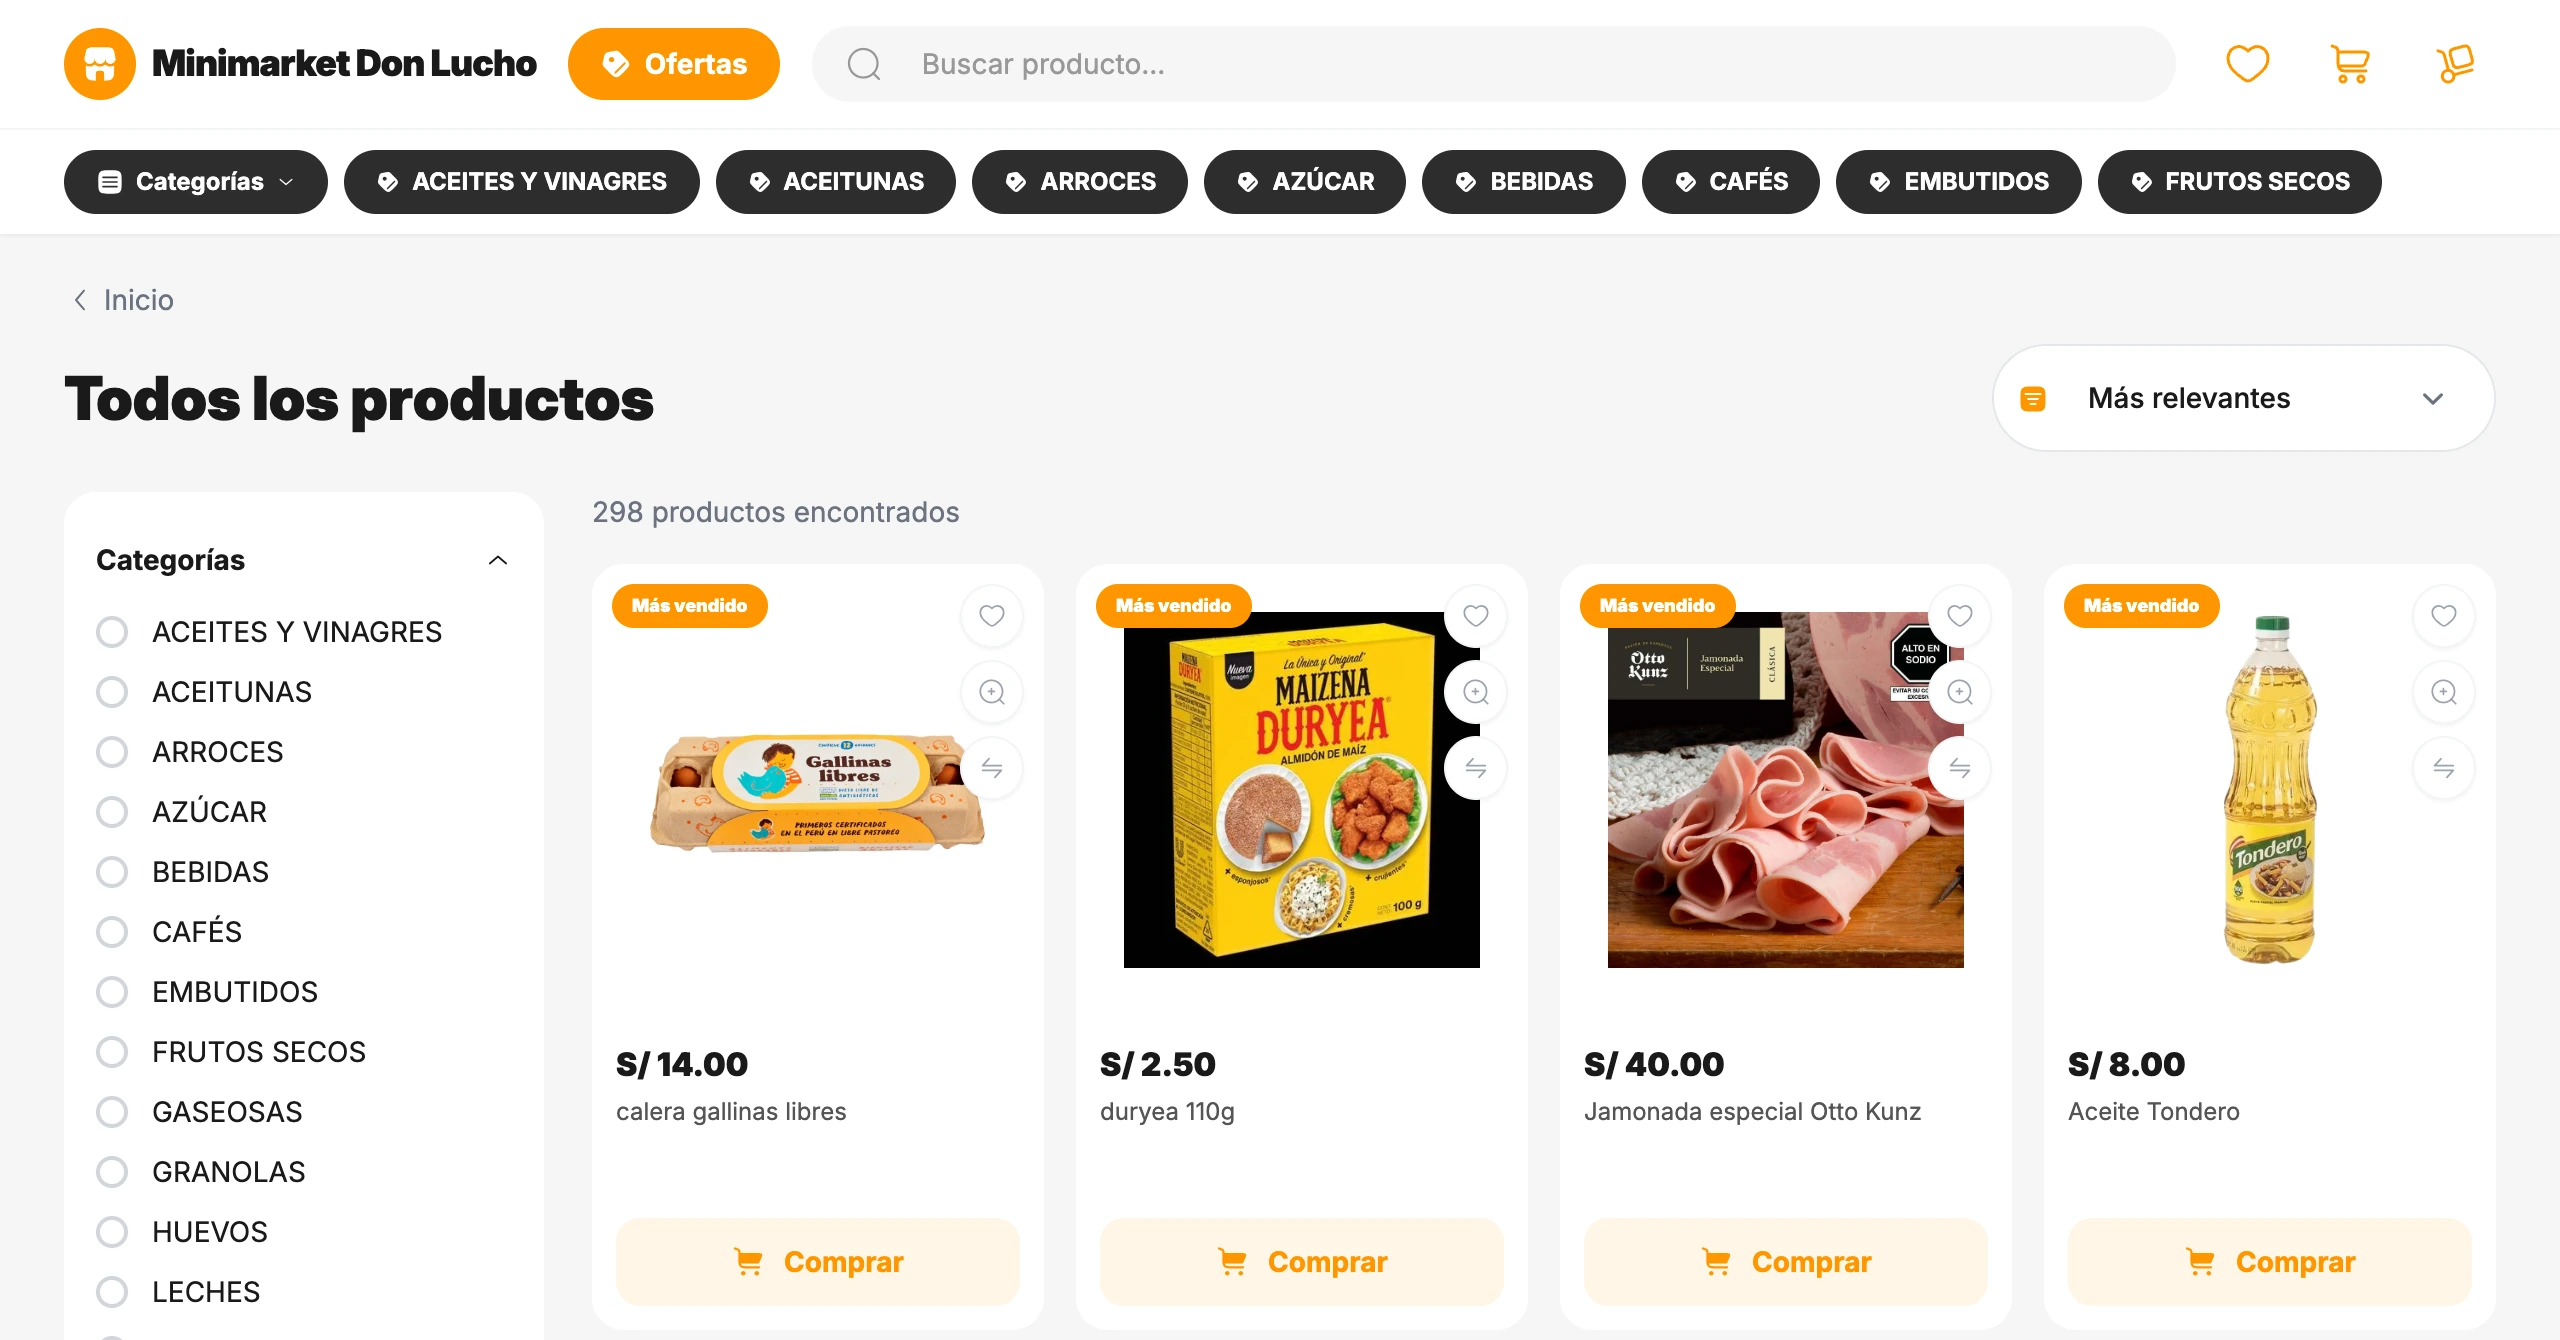
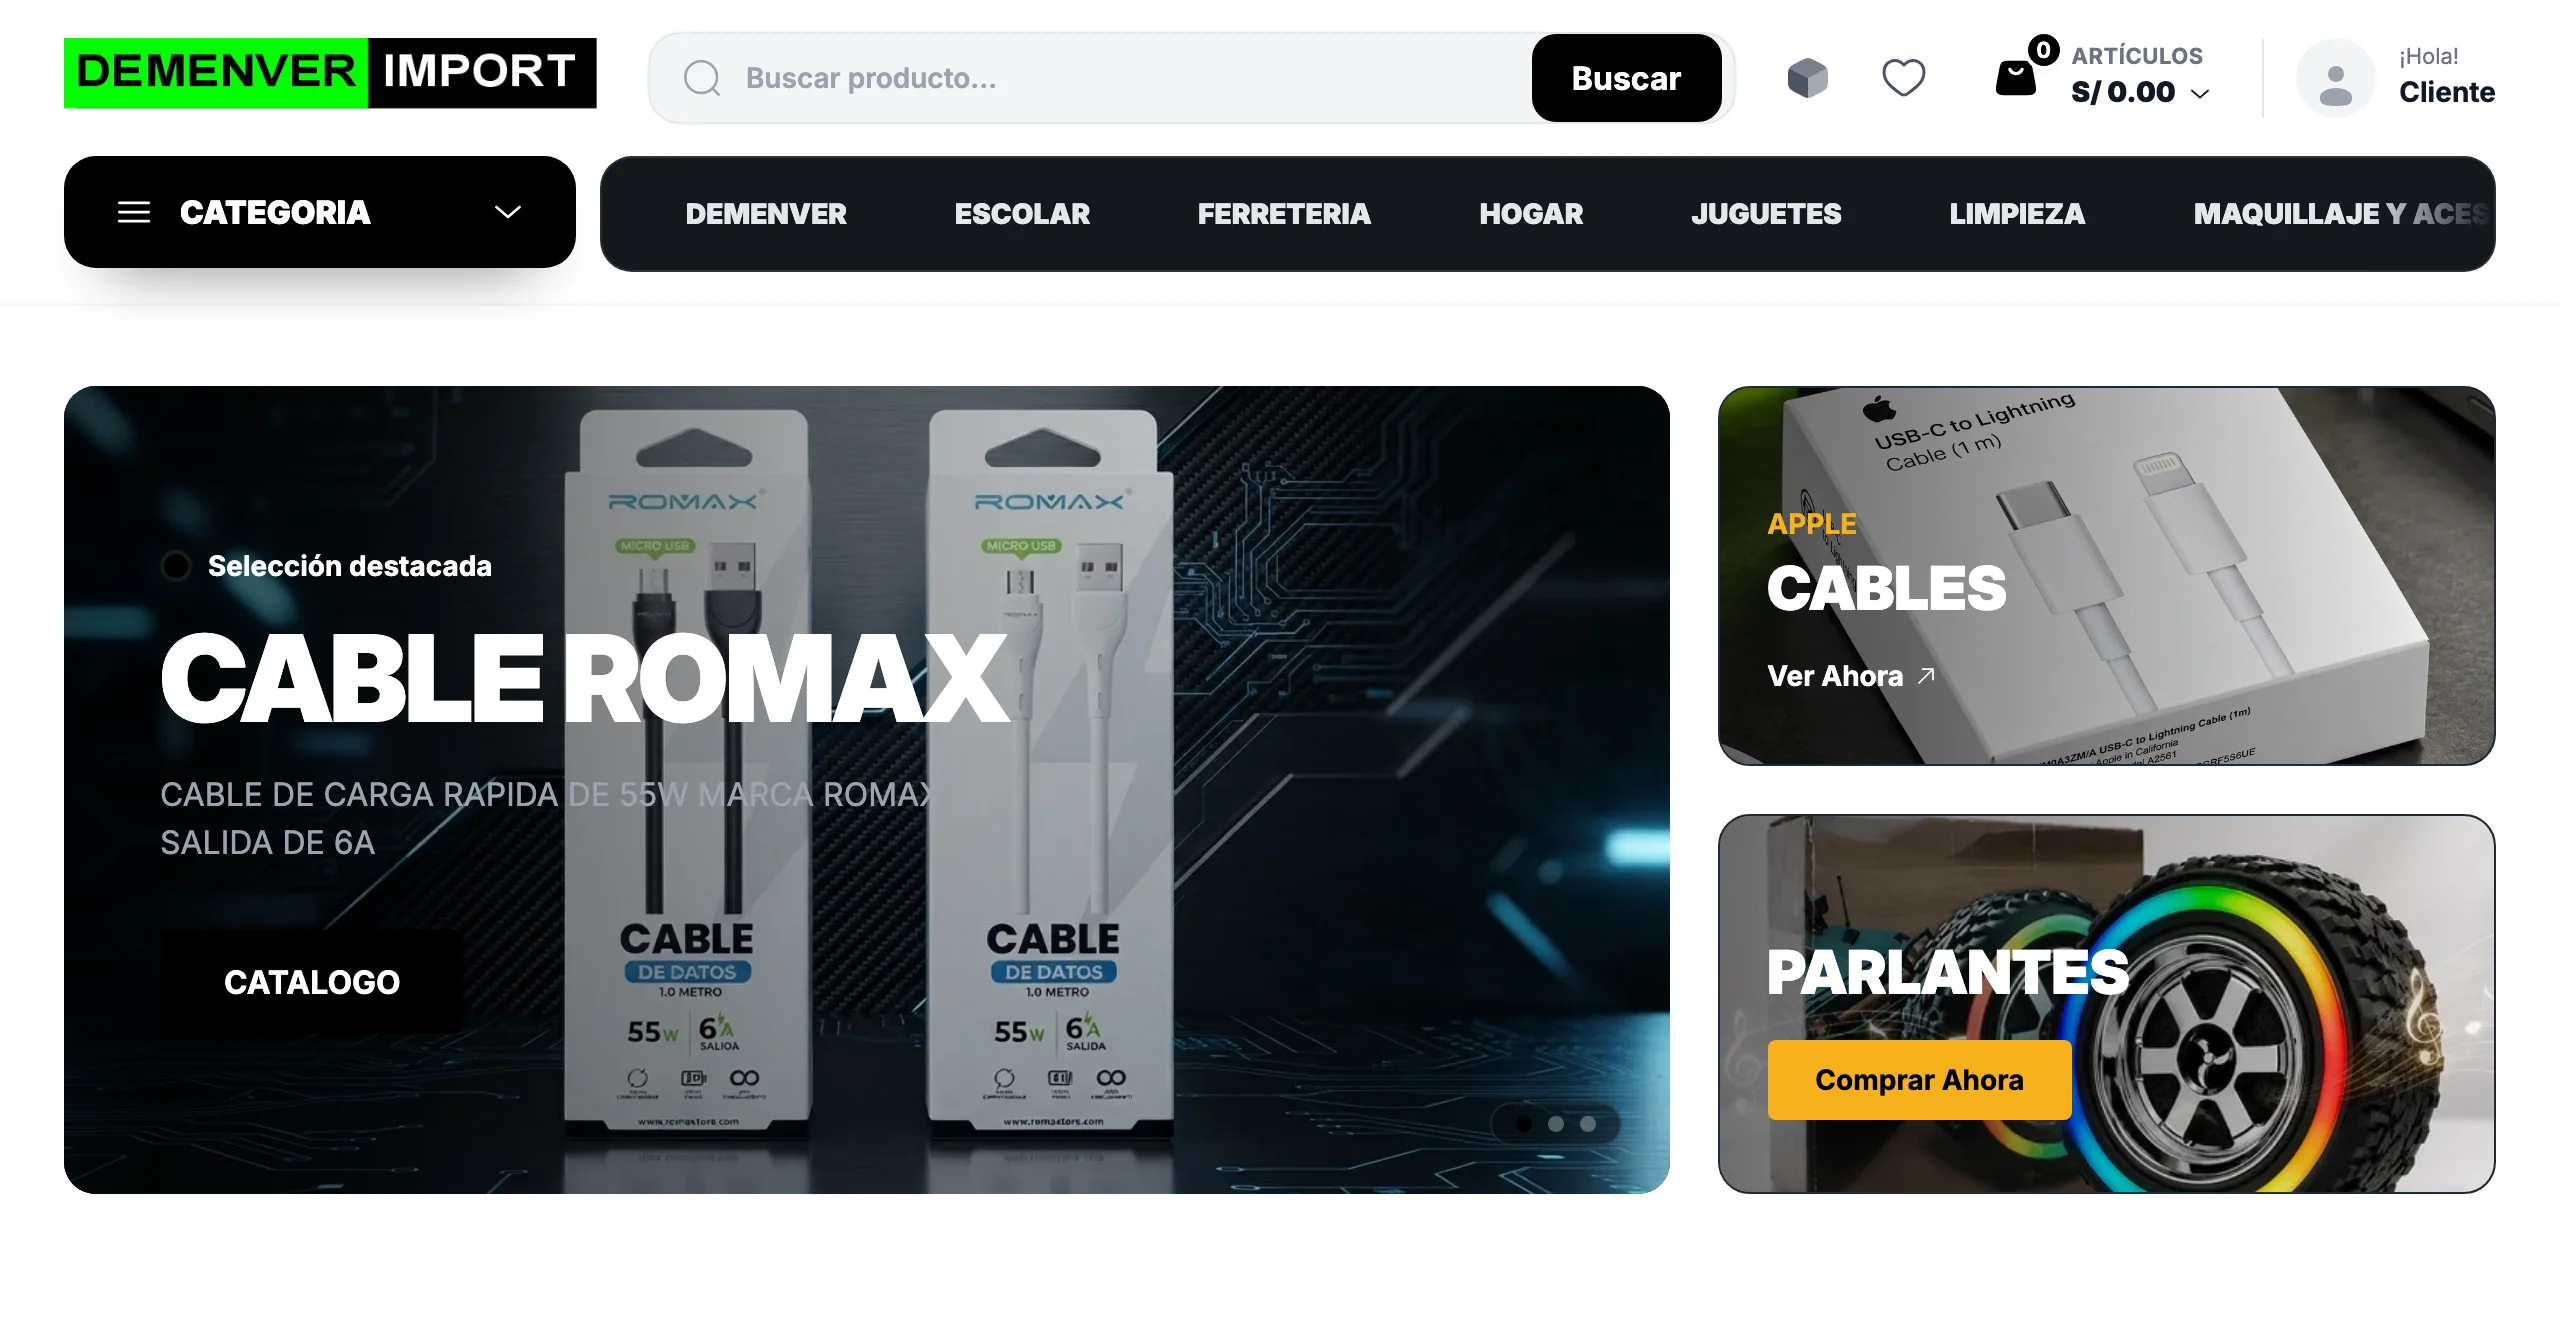
feat(home): captura de la tienda virtual con la tienda de Demenver
La pestaña Tienda Virtual del tour mostraba la tienda demo del minimarket.
Ahora muestra la portada real de app.krezka.com/tienda/demenver.

diff --git a/src/app/components/home/ProductTour.tsx b/src/app/components/home/ProductTour.tsx
@@ -19,7 +19,7 @@ type Tab = {
   title: string;
   desc: string;
   bullets: string[];
-  // Captura real del sistema con la cuenta demo de minimarket.
+  // Captura real del sistema (cuenta demo de minimarket; la tienda virtual es demenver).
   img: StaticImageData;
   url: string;
 };
@@ -53,7 +53,7 @@ const TABS: Tab[] = [
     desc: 'Un ecommerce con tu marca, catálogo, banners y variantes por talla/color. Pagos, delivery y comunicación automática con tus clientes.',
     bullets: ['Catálogo con tu slug propio', 'Variantes, combos y mayoristas', 'Pagos y envío a despacho'],
     img: tienda,
-    url: 'app.krezka.com/tienda/minimarket-don-lucho',
+    url: 'app.krezka.com/tienda/demenver',
   },
   {
     key: 'inventario',
